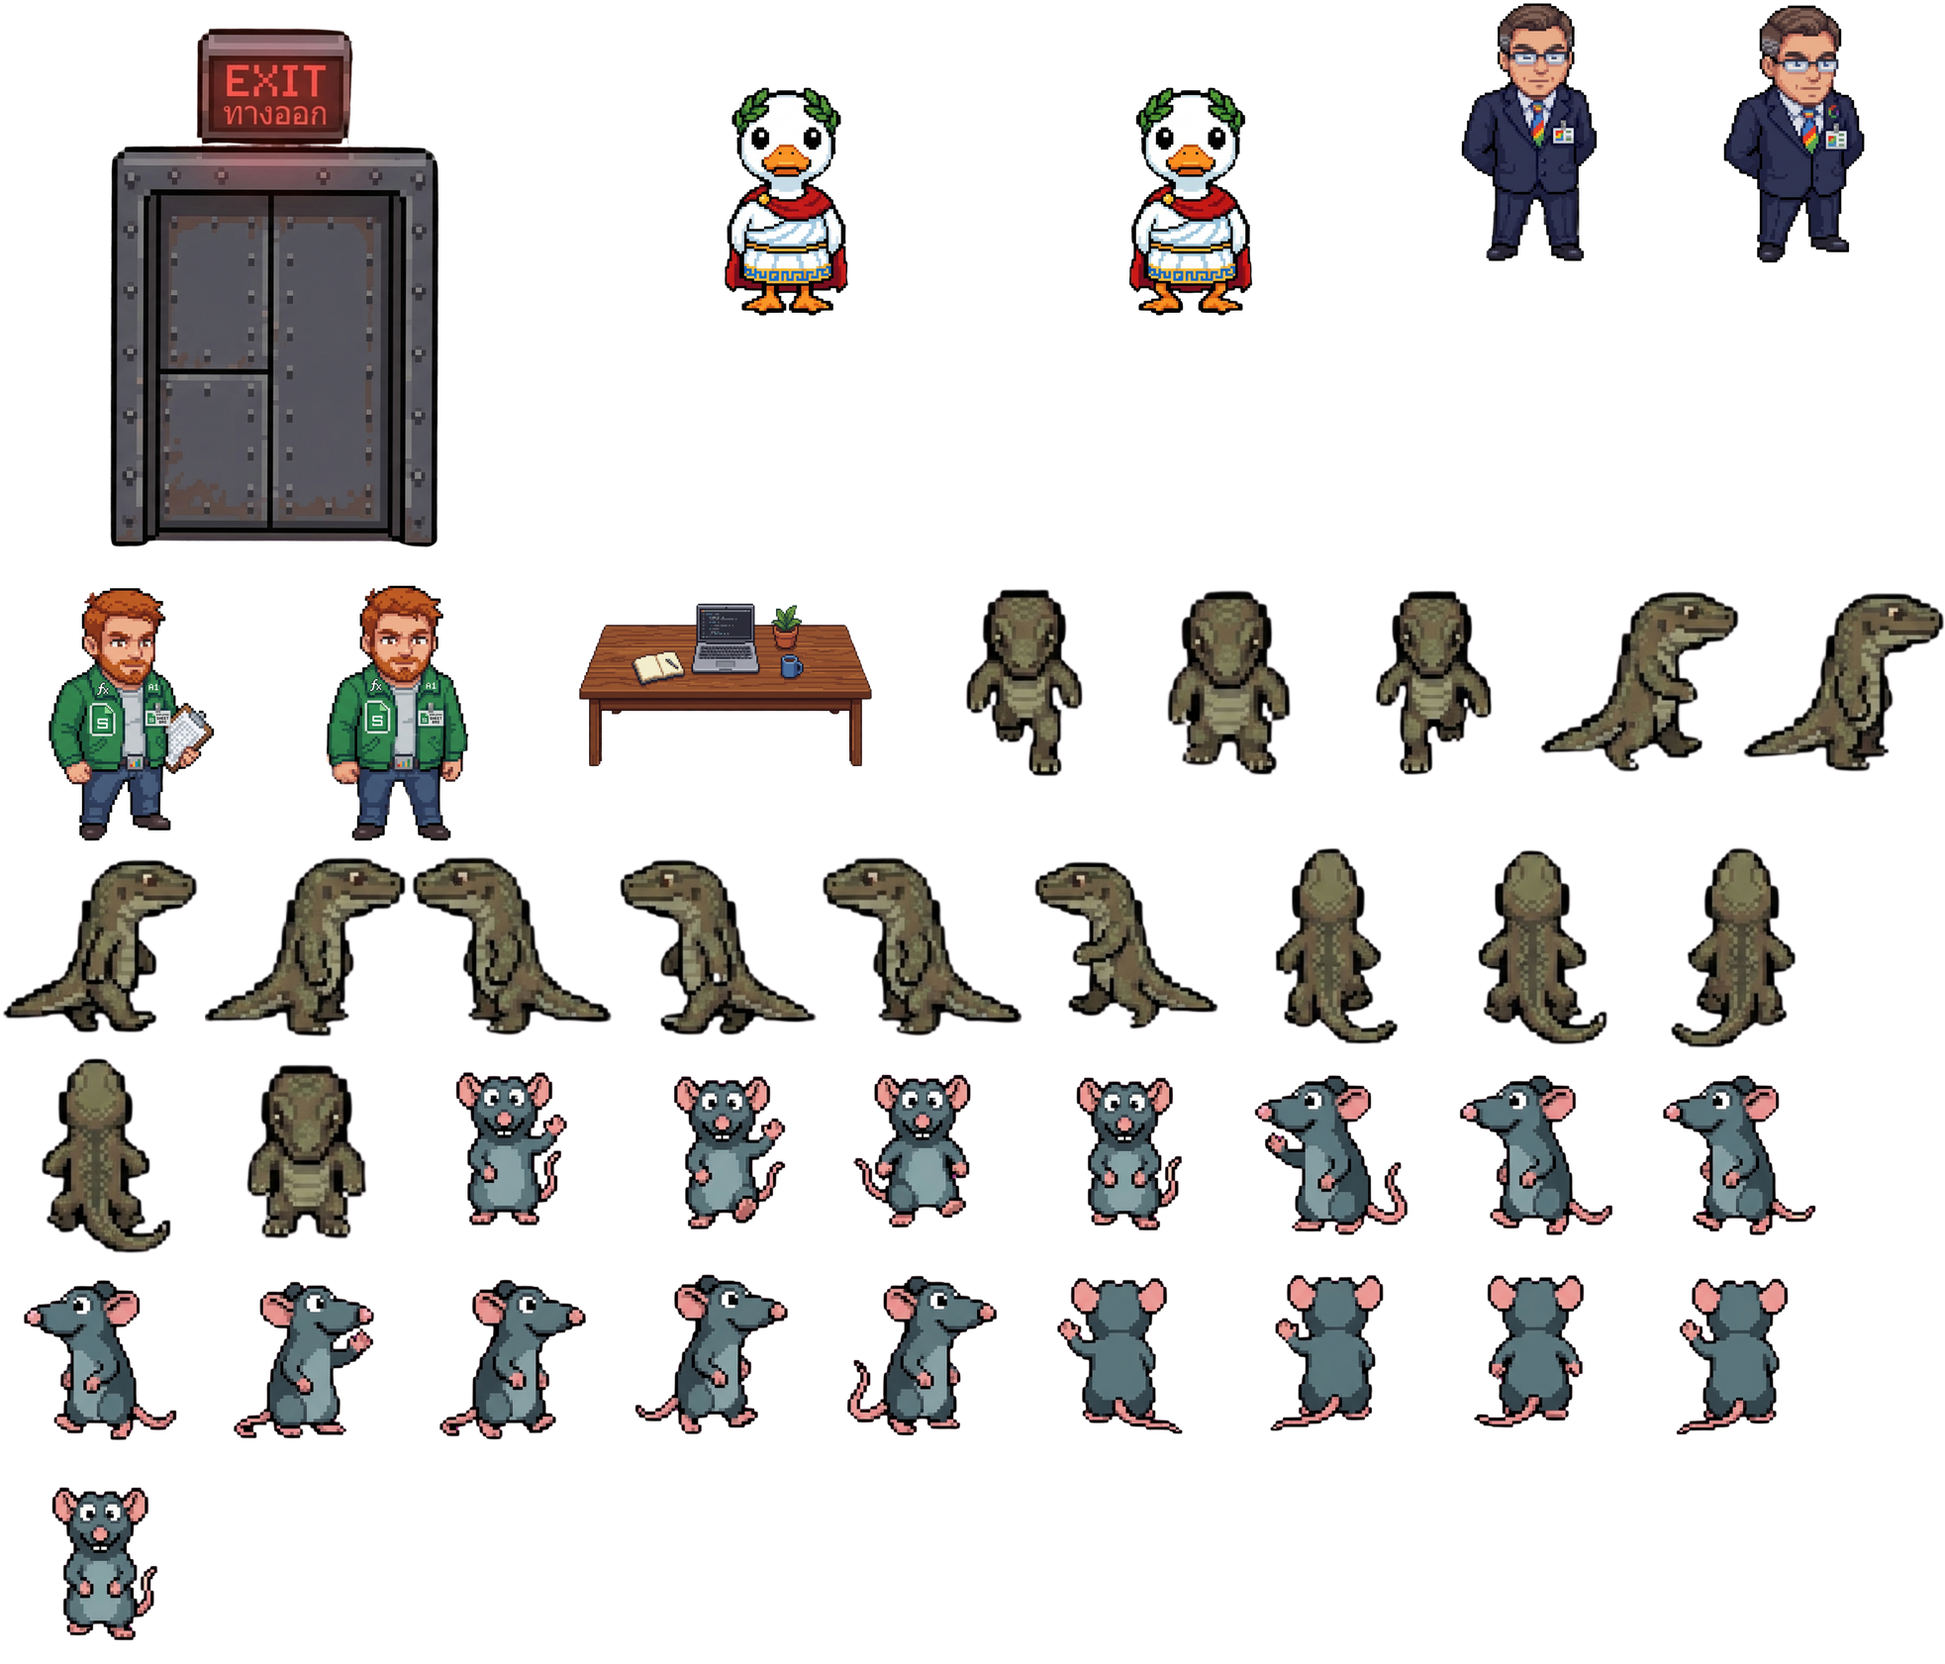
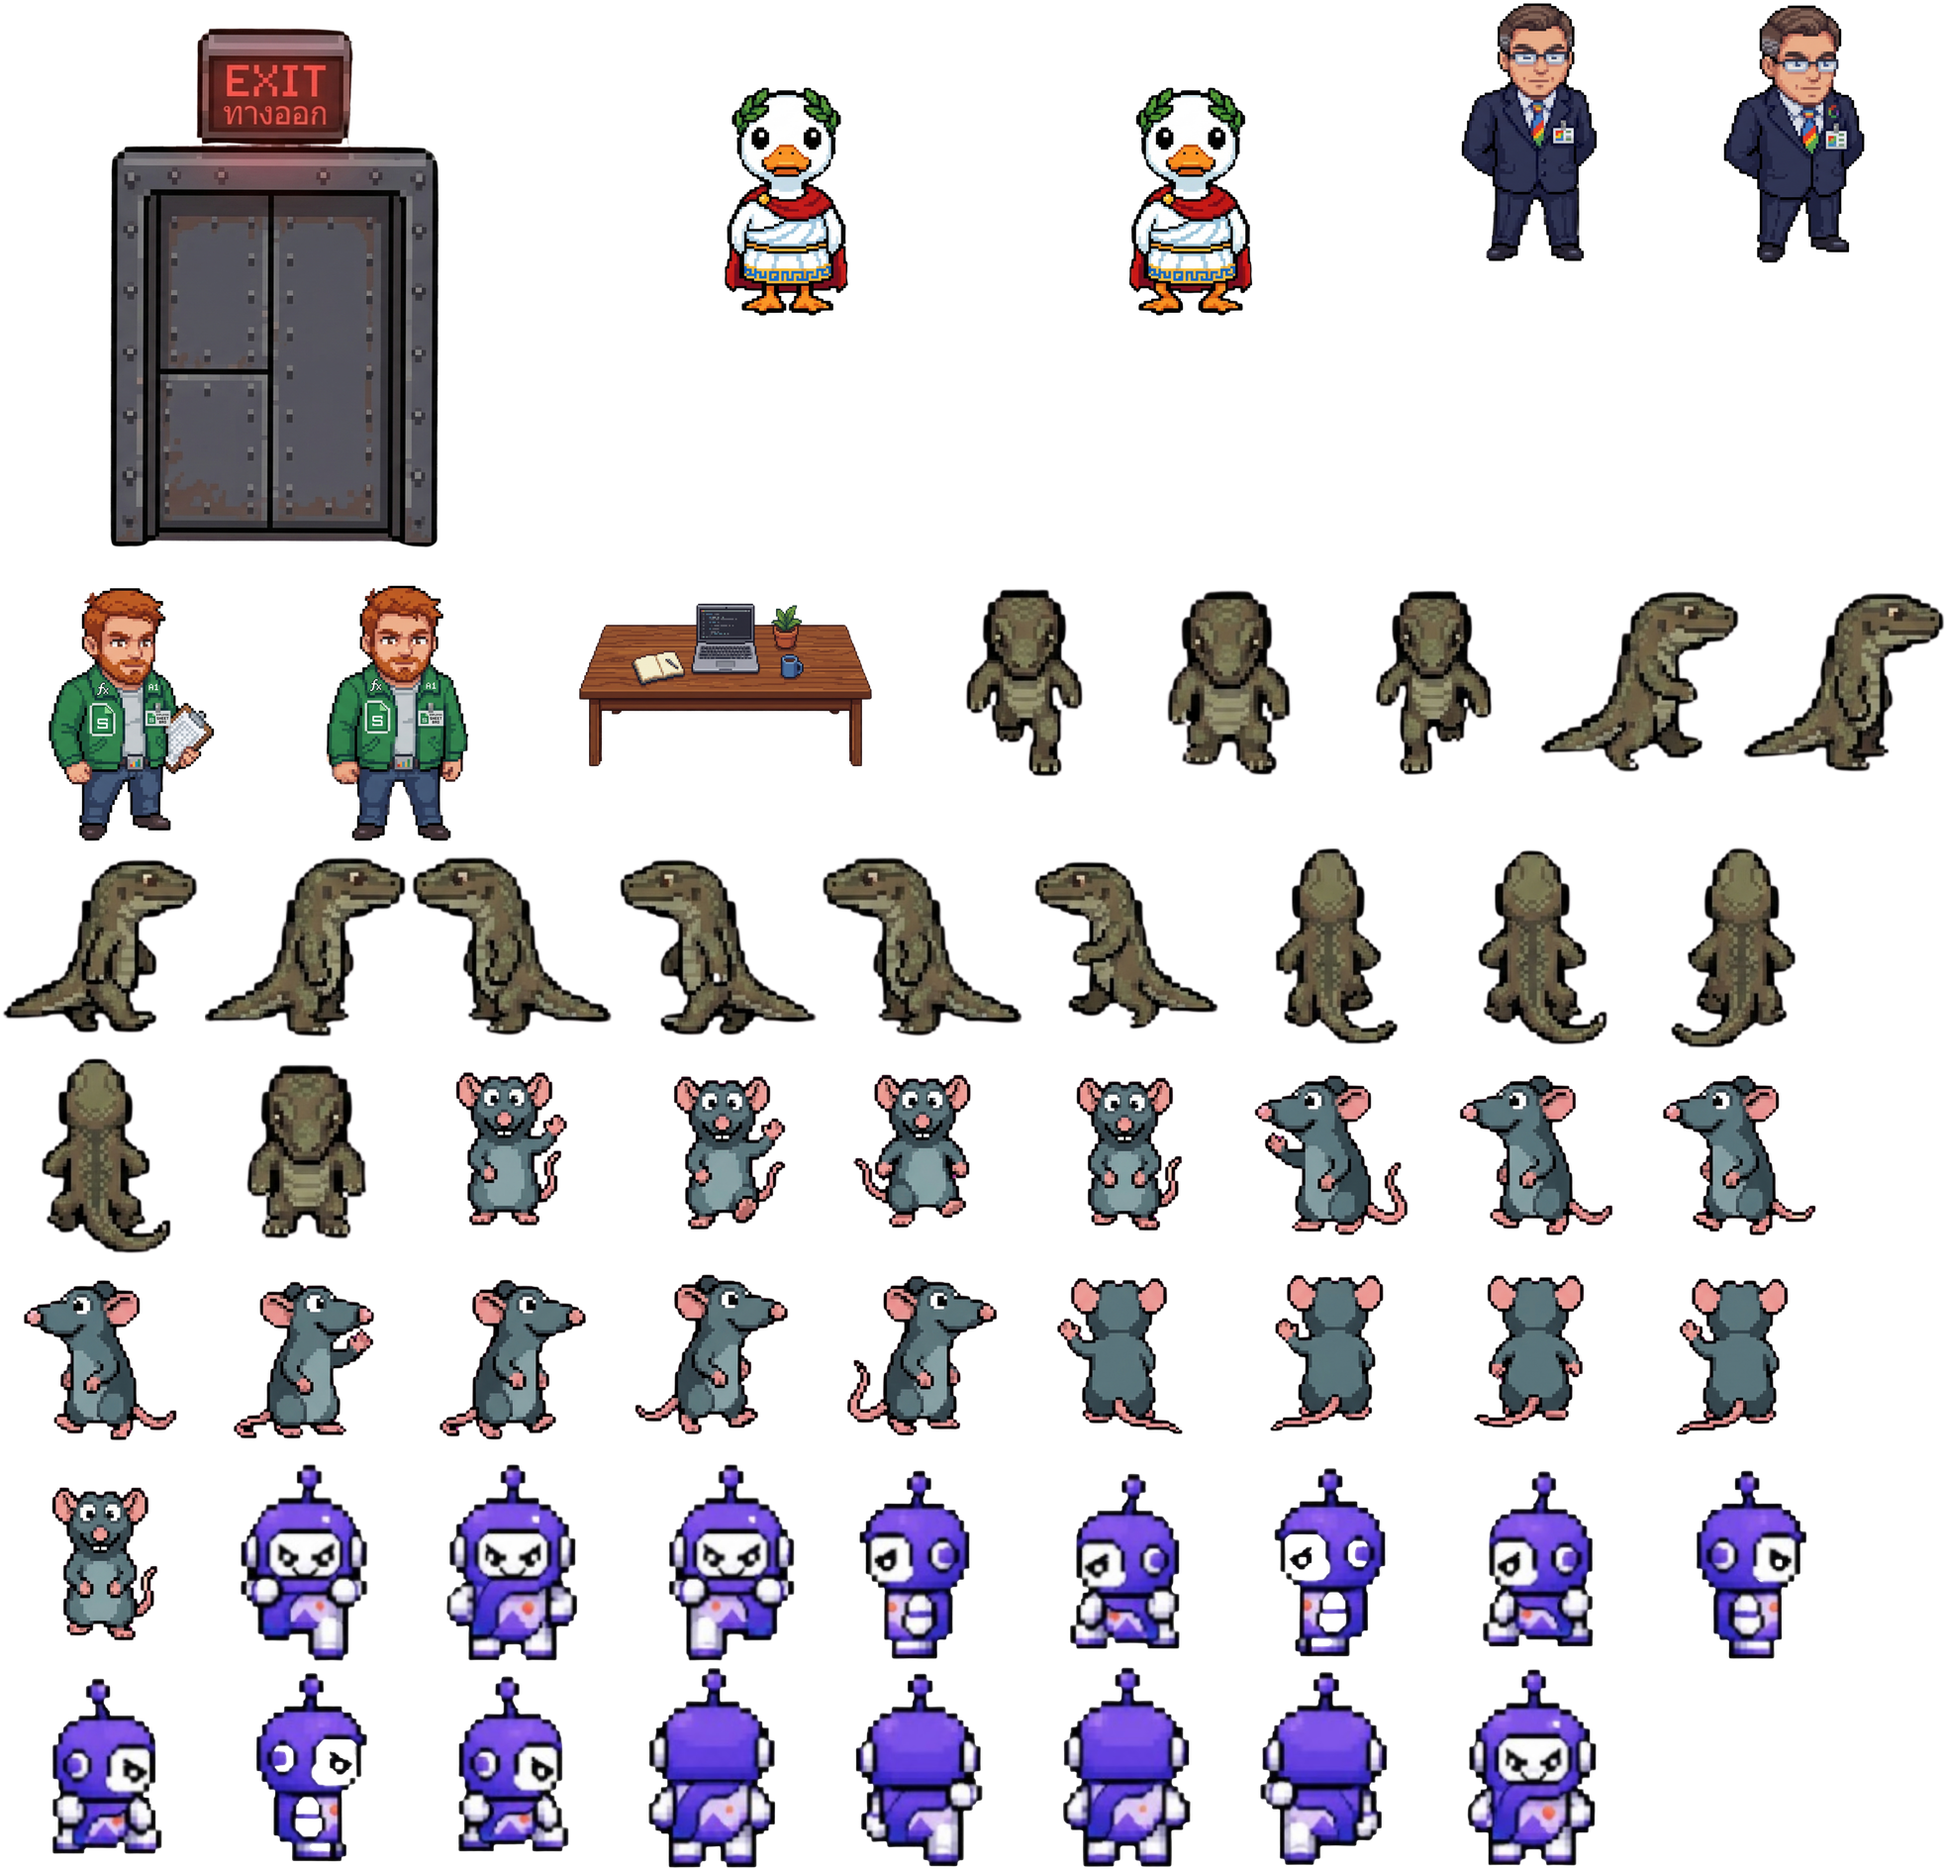
feat(assets): add err-publio sprite sheet and chaser animations
- Add directional arrow animation frames for err-publio (up, down, left, right)
- Add front idle frame for err-publio sprite
- Create chaser-idle, chaser-walk-up, chaser-walk-down, chaser-walk-left, and chaser-walk-right animations in MainScene
- Update TentChaser entity to use err-publio sprites instead of rattatoiue
- Replace rat animation references with chaser animation keys
- Rebuild atlas.json and atlas.webp with new err-publio assets
- Update asset optimization script to include err-publio frames
- Enables proper visual identity for TentChaser prank entity separate from Rat

diff --git a/game/entities/TentChaser.ts b/game/entities/TentChaser.ts
@@ -1,8 +1,7 @@
 import * as Phaser from 'phaser';
 import { ROOM, ATLAS } from '../scenes/MainScene';
 
-// Prank entity: haunts whoever is logged in as Tent. Reuses the rattatoiue
-// atlas frames + `rat-*` animations until it gets its own art.
+// Prank entity: haunts whoever is logged in as Tent.
 const CHARGE_MS = 1000; // wind-up before every dash — the "debounce"
 const DASH_SPEED = 320; // faster than the player's 200, so it always catches up
 const CATCH_DIST = 44; // close enough — stop and lurk beside Tent
@@ -18,7 +17,7 @@ export default class TentChaser extends Phaser.GameObjects.Sprite {
   private anchorY: number;
 
   constructor(scene: Phaser.Scene, x: number, y: number) {
-    super(scene, x, y, ATLAS, 'rattatoiue/front1');
+    super(scene, x, y, ATLAS, 'err-publio/front1');
     scene.add.existing(this);
     this.setScale(0.5);
     this.anchorX = x;
@@ -46,7 +45,7 @@ export default class TentChaser extends Phaser.GameObjects.Sprite {
 
     if (this.mode === 'lurk') {
       this.setPosition(this.anchorX, this.anchorY);
-      this.anims.play('rat-idle', true);
+      this.anims.play('chaser-idle', true);
       if (dist > WAKE_DIST) {
         this.mode = 'charge';
         this.chargeStart = time;
@@ -60,7 +59,7 @@ export default class TentChaser extends Phaser.GameObjects.Sprite {
         this.anchorX + Phaser.Math.Between(-2, 2),
         this.anchorY + Phaser.Math.Between(-2, 2),
       );
-      this.anims.play('rat-idle', true);
+      this.anims.play('chaser-idle', true);
       if (time - this.chargeStart >= CHARGE_MS) this.mode = 'dash';
       return;
     }
@@ -69,7 +68,7 @@ export default class TentChaser extends Phaser.GameObjects.Sprite {
     if (dist < CATCH_DIST) {
       this.mode = 'lurk';
       this.setPosition(this.anchorX, this.anchorY);
-      this.anims.play('rat-idle', true);
+      this.anims.play('chaser-idle', true);
       return;
     }
 
@@ -92,11 +91,11 @@ export default class TentChaser extends Phaser.GameObjects.Sprite {
     const key =
       Math.abs(dx) > Math.abs(dy)
         ? dx > 0
-          ? 'rat-walk-right'
-          : 'rat-walk-left'
+          ? 'chaser-walk-right'
+          : 'chaser-walk-left'
         : dy > 0
-          ? 'rat-walk-down'
-          : 'rat-walk-up';
+          ? 'chaser-walk-down'
+          : 'chaser-walk-up';
     this.anims.play(key, true);
   }
 }

diff --git a/game/scenes/MainScene.ts b/game/scenes/MainScene.ts
@@ -238,6 +238,38 @@ export default class MainScene extends Phaser.Scene {
       repeat: -1,
     });
 
+    // Tent chaser animations — err-publio only has 3 down frames
+    const C = "err-publio/";
+    this.anims.create({
+      key: "chaser-idle",
+      frames: [{ key: ATLAS, frame: C + "front1" }],
+      frameRate: 1,
+    });
+    this.anims.create({
+      key: "chaser-walk-down",
+      frames: this.frames(C + "arrowdown", 1, 3),
+      frameRate: 8,
+      repeat: -1,
+    });
+    this.anims.create({
+      key: "chaser-walk-right",
+      frames: this.frames(C + "arrowright", 1, 4),
+      frameRate: 8,
+      repeat: -1,
+    });
+    this.anims.create({
+      key: "chaser-walk-left",
+      frames: this.frames(C + "arrowleft", 1, 4),
+      frameRate: 8,
+      repeat: -1,
+    });
+    this.anims.create({
+      key: "chaser-walk-up",
+      frames: this.frames(C + "arrowup", 1, 4),
+      frameRate: 8,
+      repeat: -1,
+    });
+
     // Rat — wanders around the room, starting on the floor by the kitchen
     this.rat = new Rat(this, 800, 900);
 
